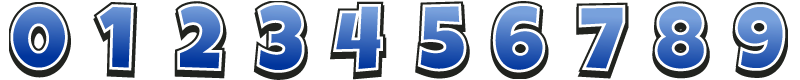
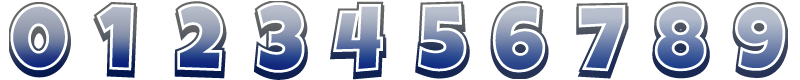
score 이미지
점수 표시해주는 이미지 적용

diff --git a/stage1_1.py b/stage1_1.py
@@ -9,22 +9,29 @@ sonic_sprite = None
 walk_monster = None
 stage1_1 = None
 num = None
+score = None
 bmx = 0
 bmy = 0
 point = 0
 
 def point_draw():
     global point
-
+    score.clip_draw(0, 0, 320, 80, 730, 570, 180,50)
     for i in range(0, 9+1):
-        if point//1000 == i:
-            num.clip_draw(0+80*i, 0, 80, 80, 30, 570, 50, 50)
+        if point//1000000 == i:
+            num.clip_draw(0+80*i, 0, 80, 80, 800+30, 570, 30, 30)
+        if (point // 100000) % 10000 == i:
+            num.clip_draw(0+80*i, 0, 80, 80, 800+55, 570, 30, 30)
+        if (point//10000)%1000 == i:
+            num.clip_draw(0+80*i, 0, 80, 80, 800+80, 570, 30, 30)
+        if (point//1000)%100 == i:
+            num.clip_draw(0+80*i, 0, 80, 80, 800+105, 570, 30, 30)
         if (point//100)%10 == i:
-            num.clip_draw(0+80*i, 0, 80, 80, 80, 570, 50, 50)
+            num.clip_draw(0+80*i, 0, 80, 80, 800+130, 570, 30, 30)
         if (point//10)%10 == i:
-            num.clip_draw(0+80*i, 0, 80, 80, 130, 570, 50, 50)
+            num.clip_draw(0+80*i, 0, 80, 80, 800+155, 570, 30, 30)
         if point%10 == i:
-            num.clip_draw(0+80*i, 0, 80, 80, 180, 570, 50, 50)
+            num.clip_draw(0+80*i, 0, 80, 80, 800+180, 570, 30, 30)
 
 
 
@@ -91,7 +98,7 @@ class player:
                 self.jumpcount = 2
 
         if self.dir != 0 and self.plus_move < 0.6:
-            self.plus_move += 0.0005
+            self.plus_move += 0.001
             if self.plus_move > 0.6:
                 self.plus_move = 0.6
 
@@ -317,12 +324,13 @@ def draw_back():                                   # 배경 그리기
 def enter():
     global sonic, b, wm
     global WIDTH, HEIGHT, frame, x, y, walk_monster, point
-    global sonic_sprite, stage1_1, num
+    global sonic_sprite, stage1_1, num, score
 
     sonic_sprite = load_image('sonic.png')
     walk_monster = load_image('walk_monster.png')
     stage1_1 = load_image('1-1-1.png')
     num = load_image('number.png')
+    score = load_image('score.png')
 
     WIDTH = 1000
     HEIGHT = 800
@@ -335,7 +343,7 @@ def enter():
 def exit():
     global sonic, b
     global WIDTH, HEIGHT, frame, x, y
-    global sonic_sprite, stage1_1, num
+    global sonic_sprite, stage1_1, num, score
 
     del(sonic_sprite)
     del(stage1_1)
@@ -343,6 +351,7 @@ def exit():
     del(sonic)
     del(b)
     del(num)
+    del (score)
 
 def handle_events():
     global sonic
